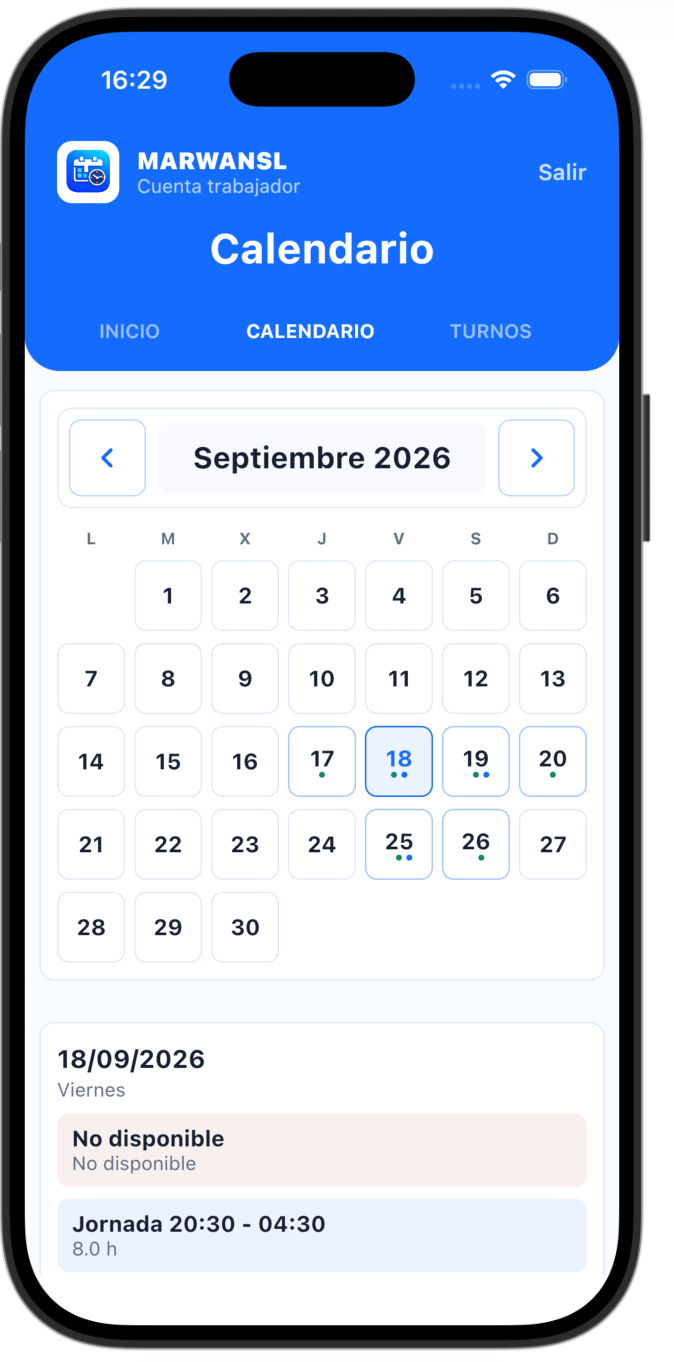
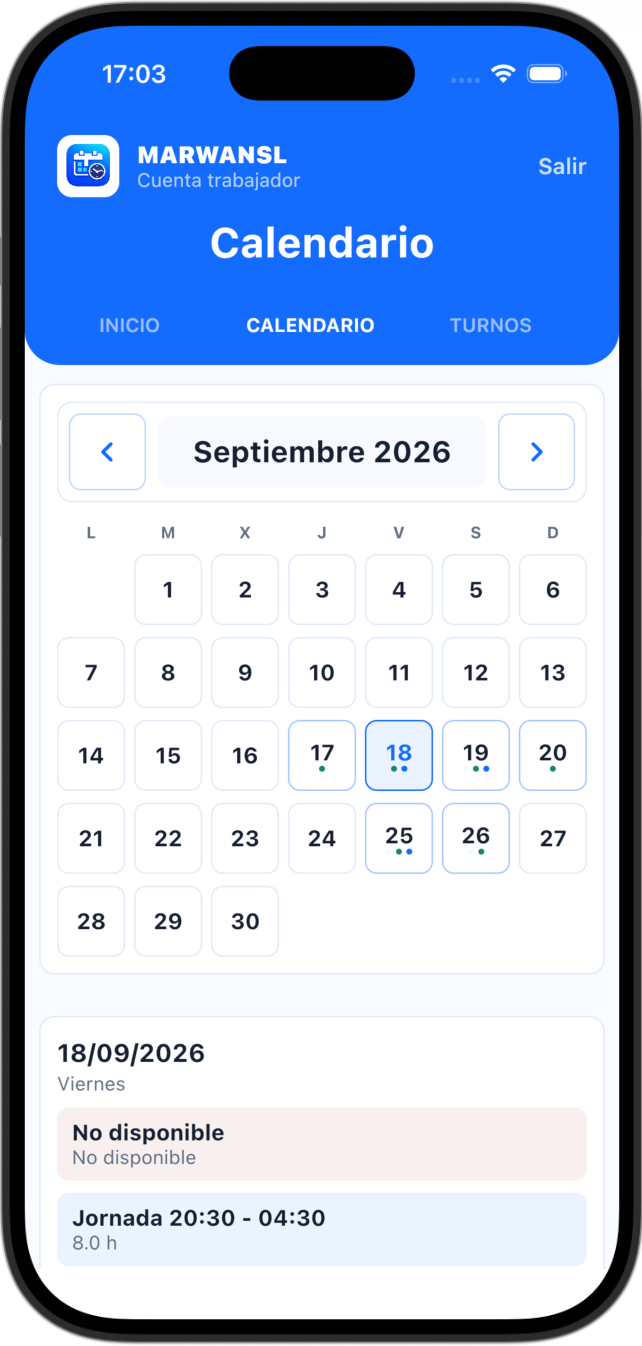
Rediseños

diff --git a/styles.css b/styles.css
@@ -422,7 +422,7 @@ h1 span {
 }
 
 .phone-front {
-  bottom: -105px;
+  bottom: -165px;
   left: 12%;
   z-index: 3;
   transform: rotate(-2deg);
@@ -430,7 +430,7 @@ h1 span {
 
 .phone-back {
   right: -1%;
-  bottom: -135px;
+  bottom: -190px;
   width: 318px;
   transform: rotate(2deg);
 }
@@ -1123,10 +1123,13 @@ h1 span {
 
   .hero-inner {
     grid-template-columns: 1fr;
+    min-width: 0;
     padding-top: 105px;
   }
 
   .hero-copy {
+    width: 100%;
+    min-width: 0;
     max-width: 700px;
     margin: 0 auto;
     padding: 48px 0 10px;
@@ -1143,7 +1146,7 @@ h1 span {
   }
 
   .phone-stage {
-    width: 660px;
+    width: min(660px, 100%);
     min-width: 0;
     height: 560px;
     margin: 0 auto;
@@ -1223,11 +1226,13 @@ h1 span {
   }
 
   h1 {
-    font-size: clamp(40px, 12vw, 54px);
+    font-size: clamp(38px, 10.5vw, 44px);
+    line-height: 1.05;
   }
 
   .hero-text {
-    font-size: 17px;
+    max-width: 350px;
+    font-size: 16px;
   }
 
   .hero-actions {
@@ -1254,25 +1259,25 @@ h1 span {
   }
 
   .phone-stage {
-    width: 470px;
-    height: 450px;
-    margin-left: 50%;
-    transform: translateX(-50%);
+    width: 100%;
+    height: 420px;
+    margin: 18px 0 0;
+    transform: none;
   }
 
   .phone {
-    width: 235px;
+    width: min(61vw, 230px);
   }
 
   .phone-front {
     bottom: -45px;
-    left: 7%;
+    left: 0;
   }
 
   .phone-back {
-    right: 6%;
-    bottom: -75px;
-    width: 224px;
+    right: 0;
+    bottom: -68px;
+    width: min(57vw, 216px);
   }
 
   .hero::after {
